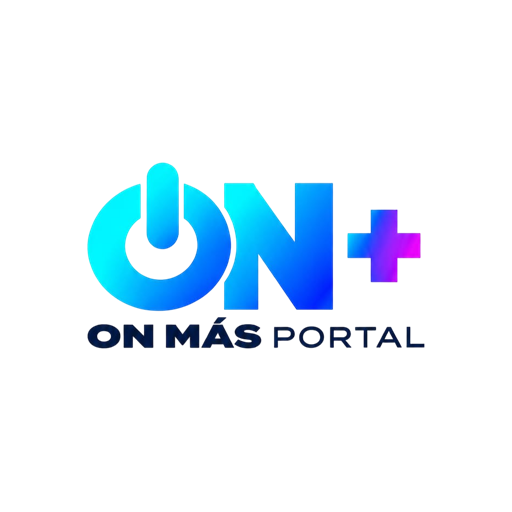
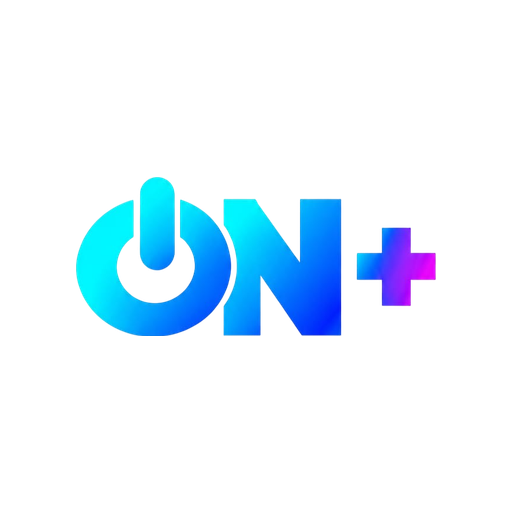
fix: unificar splash screen PWA y webapp con isotipo ON+ limpio sin texto y centrado

Changed region(s): [[0.125, 0.3125, 0.875, 0.6875]]

diff --git a/src/components/common/AppSplashScreen.tsx b/src/components/common/AppSplashScreen.tsx
@@ -47,10 +47,10 @@ export function AppSplashScreen() {
       }}
     >
       <div style={{ display: 'flex', flexDirection: 'column', alignItems: 'center', gap: '2rem', padding: '1.5rem' }}>
-        {/* Logo ON MÁS */}
-        <div style={{ position: 'relative', width: '280px', height: '158px' }}>
+        {/* Logo ON+ Oficial Grande y Centrado (Sin texto 'ON MÁS PORTAL') */}
+        <div style={{ position: 'relative', width: '280px', height: '124px' }}>
           <Image
-            src="/logo1.png"
+            src="/logo-icon.png"
             alt="ON MÁS"
             fill
             priority

diff --git a/public/sw.js b/public/sw.js
@@ -1,5 +1,5 @@
 // ON+ Portal Comercial — PWA Service Worker
-const CACHE_NAME = 'onmas-portal-v5';
+const CACHE_NAME = 'onmas-portal-v6';
 const SHELL_URLS = ['/', '/catalogo', '/comercios', '/turismo', '/planes'];
 
 self.addEventListener('install', (event) => {
